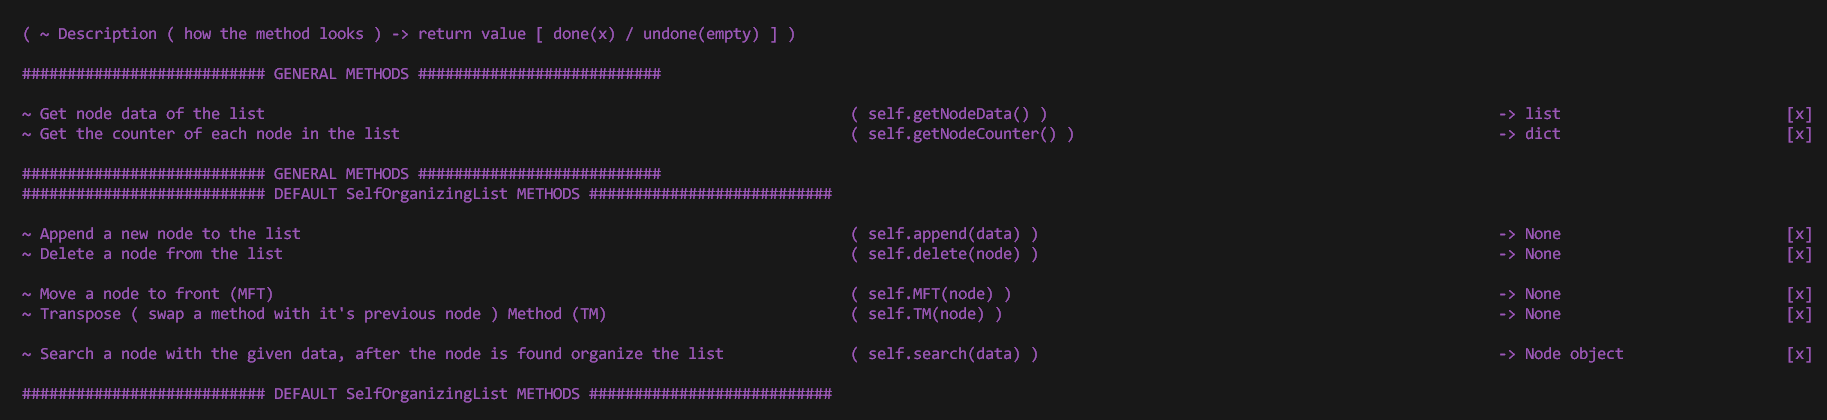
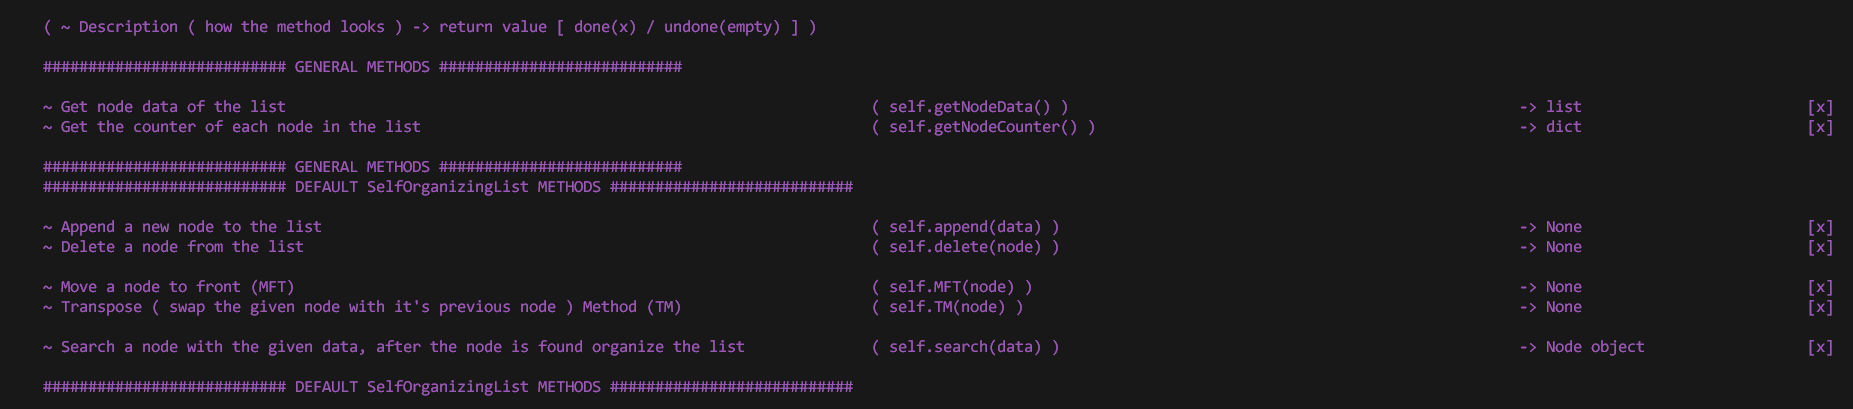
Self Organizing List - Default - Final Code

diff --git a/Data structures ( code in python )/Linear Data Structures/Self Organizing List ( Python Code )/SelfOrganizingList_Default_FinalCode.py b/Data structures ( code in python )/Linear Data Structures/Self Organizing List ( Python Code )/SelfOrganizingList_Default_FinalCode.py
@@ -26,7 +26,7 @@ class SelfOrganizingList(object):
         ~ Delete a node from the list                                                               ( self.delete(node) )                                                   -> None                         [x]
 
         ~ Move a node to front (MFT)                                                                ( self.MFT(node) )                                                      -> None                         [x]
-        ~ Transpose ( swap a method with it's previous node ) Method (TM)                           ( self.TM(node) )                                                       -> None                         [x]
+        ~ Transpose ( swap the given node with it's previous node ) Method (TM)                     ( self.TM(node) )                                                       -> None                         [x]
 
         ~ Search a node with the given data, after the node is found organize the list              ( self.search(data) )                                                   -> Node object                  [x]
 
